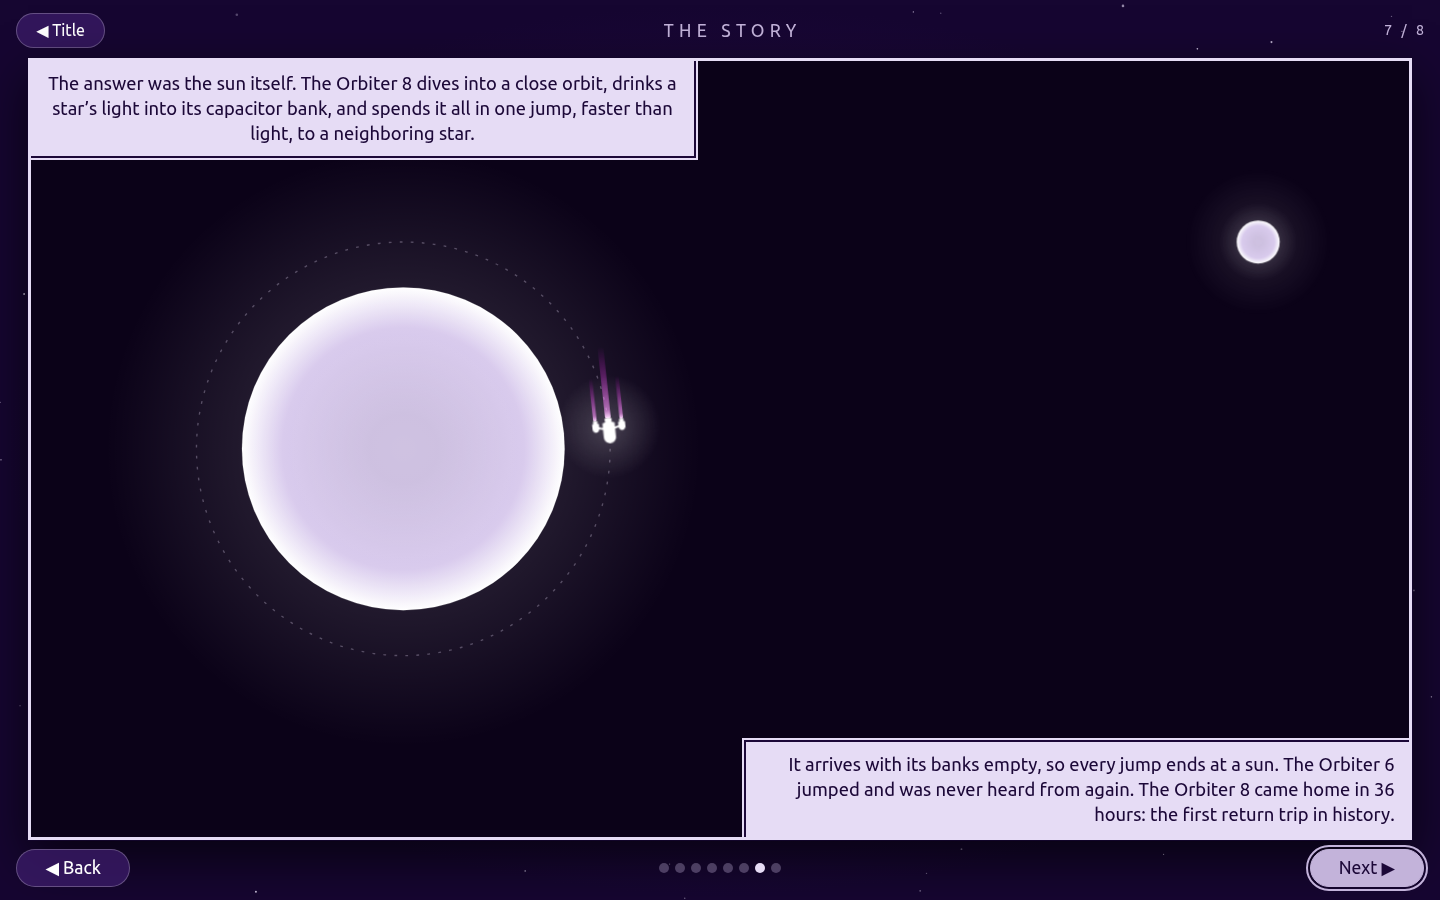
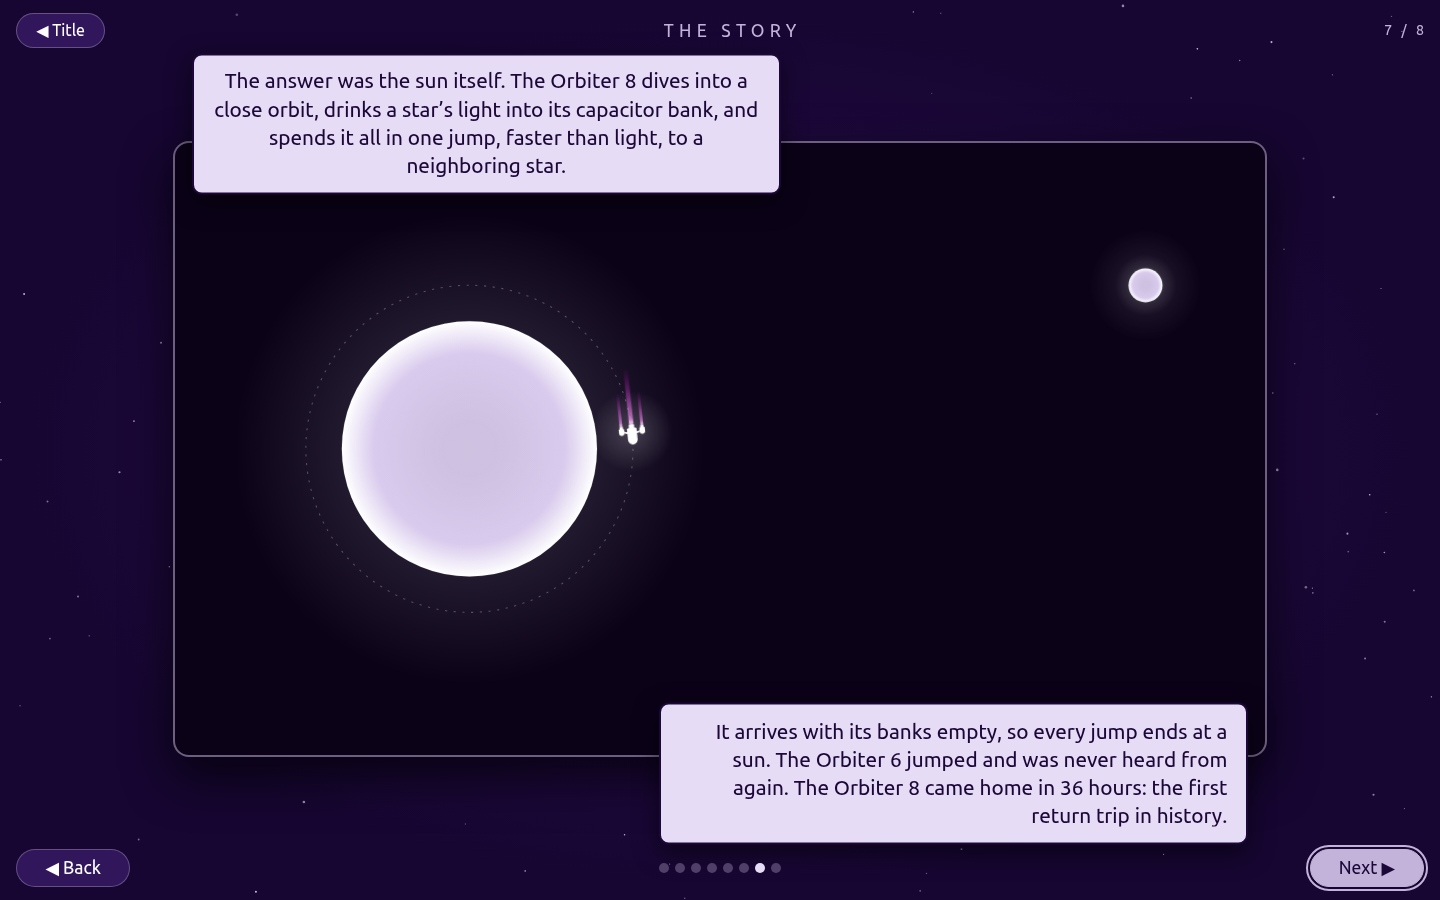
Story: a softer, rounded frame; captions hanging over its edges; larger type
Koda's pass on the new story page: the frame's white border was too intense and its square corners
off style (the game's panels and cards are rounded); the caption boxes covered parts of the scenes;
the type was a little small.

The frame is now a thin lavender line with rounded corners. The captions sit on the panel, not
inside the frame's clip, hanging over its top-left and bottom-right edges so they cover little of
the art; the page keeps room above and below for them. Captions are a step larger, with a soft
shadow instead of the white outline. The review screenshots are retaken in the new style.

Changed region(s): [[0.0, 0.0622, 1.0, 0.9644], [0.1562, 0.3111, 0.4688, 0.6844], [0.7812, 0.28, 0.8125, 0.3422]]

diff --git a/orbiter-client/src/components/title/story-scene.vue b/orbiter-client/src/components/title/story-scene.vue
@@ -27,14 +27,14 @@
       <transition :name="direction < 0 ? 'turn-back' : 'turn-next'" mode="out-in">
         <section
           :key="page"
-          class="frame"
+          class="panel"
           :aria-label="'Panel ' + (page + 1)"
           @click="next"
           @pointerdown="swipeStart"
           @pointerup="swipeEnd"
           @pointercancel="swipeCancel"
         >
-          <component :is="panel.scene" />
+          <div class="frame"><component :is="panel.scene" /></div>
           <p class="caption lead">
             <template v-for="(line, index) in panel.lead" :key="index">
               <span :style="{ animationDelay: 0.4 + index * 0.7 + 's' }">{{ line }}</span>{{ ' ' }}
@@ -248,31 +248,36 @@ export default {
   color: #c3b3da;
 }
 
-/* The page: one panel, framed like a comic's, as large as the screen allows at a landscape shape. */
+/* The page: one panel, framed like a comic's, as large as the screen allows at a landscape shape.
+   The page's padding leaves room for the captions, which hang over the frame's top and bottom edges. */
 .page {
   position: relative;
   display: grid;
   place-items: center;
-  padding: 0 1rem;
+  padding: 5rem 1rem;
   min-height: 0;
 }
-.frame {
+.panel {
   position: relative;
-  display: flex;
-  align-items: center;
-  justify-content: center;
   height: min(100%, (100vw - 2rem) * 9 / 16);
   aspect-ratio: 16 / 9;
-  background: #0b0218;
-  border: 3px solid #e6dcf5;
-  box-shadow:
-    0 0 0 1px #12052a,
-    0 1.2rem 3rem #000a;
-  overflow: hidden;
   cursor: pointer;
   user-select: none;
   -webkit-user-select: none;
   touch-action: pan-y;
+}
+.frame {
+  display: flex;
+  align-items: center;
+  justify-content: center;
+  width: 100%;
+  height: 100%;
+  box-sizing: border-box;
+  background: #0b0218;
+  border: 2px solid #c3b3da88;
+  border-radius: 1rem;
+  box-shadow: 0 1.2rem 3rem #000a;
+  overflow: hidden;
 }
 .frame :deep(.art) {
   display: block;
@@ -280,31 +285,31 @@ export default {
   height: 100%;
 }
 
-/* Captions: the narrator's boxes, on the frame's top-left and bottom-right corners. */
+/* Captions: the narrator's boxes, hanging over the frame's top-left and bottom-right edges so
+   they cover little of the scene. */
 .caption {
   position: absolute;
   margin: 0;
-  max-width: 46%;
-  padding: 0.55em 0.8em;
+  max-width: 50%;
+  padding: 0.6em 0.9em;
   background: #e6dcf5;
   color: #1c0838;
   border: 2px solid #1c0838;
-  box-shadow: 0 0 0 2px #e6dcf5;
-  font-size: clamp(0.9rem, 1.6vw, 1.15rem);
+  border-radius: 0.6rem;
+  box-shadow: 0 0.5rem 1.5rem #0008;
+  font-size: clamp(1rem, 1.8vw, 1.3rem);
   line-height: 1.35;
   pointer-events: none;
 }
 .caption.lead {
   top: 0;
-  left: 0;
-  border-top: 0;
-  border-left: 0;
+  left: 1.2rem;
+  transform: translateY(-62%);
 }
 .caption.close {
-  right: 0;
+  right: 1.2rem;
   bottom: 0;
-  border-right: 0;
-  border-bottom: 0;
+  transform: translateY(62%);
   text-align: right;
 }
 .caption span,
@@ -380,16 +385,29 @@ export default {
   .heading {
     display: none;
   }
-  .frame {
+  .page {
+    padding: 4.5rem 1rem 5.5rem;
+  }
+  .panel {
     height: min(100%, (100vw - 2rem) * 16 / 9);
     aspect-ratio: 9 / 16;
+  }
+  .frame {
+    border-radius: 0.8rem;
   }
   .frame :deep(.art.wide) {
     height: auto;
     aspect-ratio: 1 / 1;
   }
   .caption {
-    max-width: 88%;
+    max-width: calc(100% - 1.2rem);
+    font-size: 1rem;
+  }
+  .caption.lead {
+    left: 0.6rem;
+  }
+  .caption.close {
+    right: 0.6rem;
   }
   .controls .o8-button {
     min-width: 5.5em;

diff --git a/docs/review.md b/docs/review.md
@@ -410,6 +410,11 @@ story; eight panels or so (four to twelve). Done, and seen at 1440 × 900 and 39
   middle instead of cropped to a column. The other scenes are cropped to their middle, where the
   subject is.
 
+Koda's second pass (same day): the frame's white border was too intense and its square corners off
+style; the captions covered the art; the type was small. Now: a thin lavender border, rounded
+corners (as the panels and cards have), captions that hang over the frame's top-left and bottom-right
+edges so they cover little of the scene, and larger type.
+
 Calls made in your place:
 - **Nine panels would have given the pirates their own page**; eight keeps your target, so they
   share the last panel's closing caption and the dark corner of its map. Easy to split if you'd
